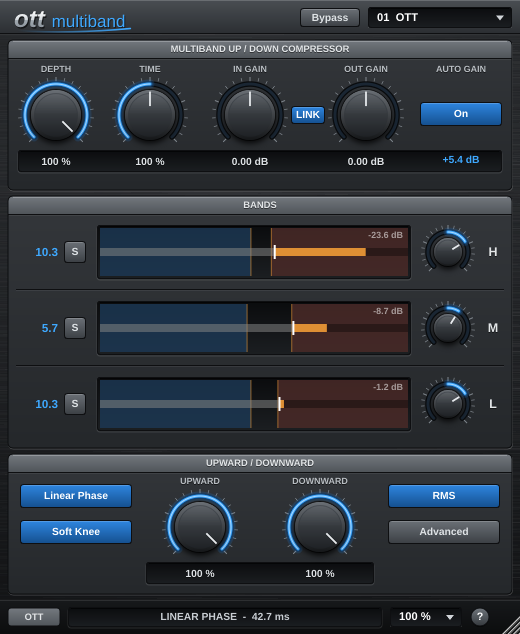
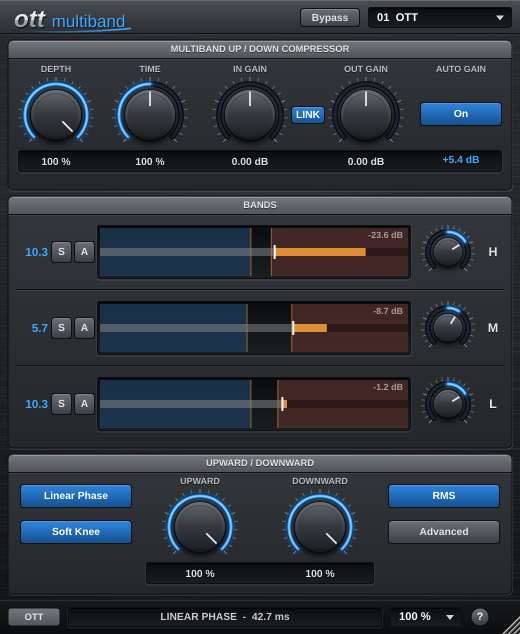
Band auto gain (A buttons on the main view)
Each band keeps 8 s of its incoming level and detector level (10 ms
steps) and works out the loudness change the current gain curve
applies; the make-up cancels it. Settings changes are compensated at
once by re-evaluating the history, so it doesn't ride the music. A
comparison of the real compressor output with the static curve (learnt
after each change settles) corrects for attack / release. Band level
holds within ~0.2 dB of the uncompressed band in tests.

Claude-Session: https://claude.ai/code/session_01HY2UoCKpkhdLi1GRGhTrA6

diff --git a/Source/DSP/BandCompressor.h b/Source/DSP/BandCompressor.h
@@ -2,6 +2,7 @@
 
 #include <juce_audio_basics/juce_audio_basics.h>
 #include "../Parameters.h"
+#include <array>
 
 namespace ott
 {
@@ -20,6 +21,14 @@ namespace ott
         release) and a slow one (250 ms attack, 1.2 s release); the band follows
         whichever compresses more. Short peaks recover quickly, sustained
         compression recovers slowly, so there's less pumping on dense material.
+      - Auto gain (make-up): keeps 8 s of the band's incoming level (10 ms steps)
+        and works out the exact loudness change the current gain curve applies to
+        it; the make-up cancels that. Changing a threshold, ratio or Upward /
+        Downward updates it at once (it re-evaluates the history), and it only
+        drifts at the pace of an 8 s loudness window, so it doesn't ride the music.
+        A running comparison of the real compressor output with the static curve
+        corrects for attack / release, so the long-term level matches to ~0.2 dB.
+        The band's output gain still trims on top.
 */
 class BandCompressor
 {
@@ -31,7 +40,7 @@ public:
         float aboveThresh = -30.0f, aboveRatio = 4.0f;
         float belowThresh = -40.0f, belowRatio = 4.0f;
         float upward = 1.0f, downward = 1.0f, timeScale = 1.0f;
-        bool active = true, softKnee = true, rms = true, autoRelease = false;
+        bool active = true, softKnee = true, rms = true, autoRelease = false, autoGain = false;
     };
 
     struct Meter
@@ -39,6 +48,7 @@ public:
         float inputDb = kMinDb;   // detector level (after input gain)
         float outputDb = kMinDb;  // band output peak
         float gainDb = 0.0f;      // gain change applied by the compressor
+        float makeupDb = 0.0f;    // auto gain make-up
     };
 
     void prepare (double fs)
@@ -48,6 +58,8 @@ public:
         outGain.reset (fs, 0.02);
         activeMix.reset (fs, 0.03);
         rmsAlpha = 1.0f - coefFor (10.0f);
+        makeupAlpha = 1.0f - coefFor (100.0f);
+        blockLength = std::max (1, juce::roundToInt (0.01 * fs));
         reset();
     }
 
@@ -55,6 +67,8 @@ public:
     {
         envMs = 0.0f;
         gainDb = fastDb = slowDb = 0.0f;
+        resetMakeup();
+        makeupGain = makeupTarget = 1.0f;
         inGain.setCurrentAndTargetValue (juce::Decibels::decibelsToGain (settings.inputDb));
         outGain.setCurrentAndTargetValue (juce::Decibels::decibelsToGain (settings.outputDb));
         activeMix.setCurrentAndTargetValue (settings.active ? 1.0f : 0.0f);
@@ -62,7 +76,17 @@ public:
 
     void setSettings (const Settings& s)
     {
+        using juce::exactlyEqual;
+        const bool curveChanged = ! exactlyEqual (s.aboveThresh, settings.aboveThresh) || ! exactlyEqual (s.belowThresh, settings.belowThresh)
+                               || ! exactlyEqual (s.aboveRatio, settings.aboveRatio) || ! exactlyEqual (s.belowRatio, settings.belowRatio)
+                               || ! exactlyEqual (s.upward, settings.upward) || ! exactlyEqual (s.downward, settings.downward)
+                               || s.softKnee != settings.softKnee || s.rms != settings.rms;
+        const bool switchedOn = s.autoGain && ! settings.autoGain;
         settings = s;
+        if (curveChanged)
+            blocksSinceChange = 0;               // the ballistics correction re-learns from new blocks
+        if ((curveChanged || switchedOn) && settings.autoGain)
+            updateMakeupTarget();                // re-evaluate the history with the new curve
         inGain.setTargetValue (juce::Decibels::decibelsToGain (s.inputDb));
         outGain.setTargetValue (juce::Decibels::decibelsToGain (s.outputDb));
         activeMix.setTargetValue (s.active ? 1.0f : 0.0f);
@@ -151,7 +175,15 @@ public:
             const float g = juce::Decibels::decibelsToGain (gainDb, -200.0f);
             float zl = yl * g, zr = yr * g;
 
-            const float post = outGain.getNextValue();
+            // auto gain: collect the incoming level, then apply the make-up
+            blockIn += (double) (yl * yl + yr * yr) * chanNorm;
+            blockLevel += (double) std::max (kMinDb, levelDb);
+            blockOut += (double) (zl * zl + zr * zr) * chanNorm;
+            if (++blockCount >= blockLength)
+                pushMakeupBlock();
+            makeupGain += makeupAlpha * ((settings.autoGain ? makeupTarget : 1.0f) - makeupGain);
+
+            const float post = outGain.getNextValue() * makeupGain;
             zl *= post;
             zr *= post;
 
@@ -170,11 +202,78 @@ public:
         meter.inputDb = std::max (kMinDb, maxLevelDb);
         meter.outputDb = std::max (kMinDb, juce::Decibels::gainToDecibels (maxOut, -100.0f));
         meter.gainDb = settings.active ? gainDb : 0.0f;
+        meter.makeupDb = juce::Decibels::gainToDecibels (makeupGain);
     }
 
     const Meter& getMeter() const noexcept     { return meter; }
 
 private:
+    void resetMakeup()
+    {
+        historyPower.fill (0.0f);
+        historyLevel.fill (kMinDb);
+        historyActual.fill (0.0f);
+        historyPredicted.fill (0.0f);
+        historyCount = historyIndex = blockCount = blocksSinceChange = 0;
+        blockIn = blockLevel = blockOut = 0.0;
+        ballistics = 1.0;
+        makeupTarget = makeupGain;
+    }
+
+    void pushMakeupBlock()
+    {
+        historyPower[(size_t) historyIndex] = (float) (blockIn / (double) blockLength);
+        historyLevel[(size_t) historyIndex] = (float) (blockLevel / (double) blockLength);
+        // what the compressor really did vs. what the static curve predicts (attack / release
+        // smooth the gain, so the real average differs a little from the curve)
+        historyActual[(size_t) historyIndex] = (float) (blockOut / (double) blockLength);
+        historyPredicted[(size_t) historyIndex] = historyPower[(size_t) historyIndex]
+            * (float) std::pow (10.0, 0.1 * (double) computeGainDb (historyLevel[(size_t) historyIndex]));
+        historyIndex = (historyIndex + 1) % kHistory;
+        historyCount = std::min (historyCount + 1, kHistory);
+        blocksSinceChange = std::min (blocksSinceChange + 1, kHistory);
+        blockIn = blockLevel = blockOut = 0.0;
+        blockCount = 0;
+        if (settings.autoGain && historyIndex % 5 == 0)   // every 50 ms (setting changes update at once)
+            updateMakeupTarget();
+    }
+
+    // Make-up = loudness of the history / loudness of the history after the current gain curve
+    // (each 10 ms step weighted by its power, its gain taken at the detector's level).
+    void updateMakeupTarget()
+    {
+        double in = 0.0, out = 0.0;
+        for (int i = 0; i < historyCount; ++i)
+        {
+            const float p = historyPower[(size_t) i];
+            if (p < 1.0e-10f)
+                continue;
+            in  += (double) p;
+            out += (double) p * std::pow (10.0, 0.1 * (double) computeGainDb (historyLevel[(size_t) i]));
+        }
+
+        // Ballistics correction (limited to +/- 12 dB), learnt only from blocks recorded since the
+        // last settings change, skipping the first 0.5 s while the compressor's gain moves over to
+        // the new setting; until there's 0.5 s of settled blocks, the previous correction is kept.
+        constexpr int settleBlocks = 50;
+        if (blocksSinceChange >= 2 * settleBlocks)
+        {
+            double actual = 0.0, predicted = 0.0;
+            for (int k = 1; k <= std::min (blocksSinceChange - settleBlocks, historyCount); ++k)
+            {
+                const size_t i = (size_t) ((historyIndex - k + kHistory) % kHistory);
+                actual += (double) historyActual[i];
+                predicted += (double) historyPredicted[i];
+            }
+            if (predicted > 1.0e-20 && actual > 1.0e-20)
+                ballistics = juce::jlimit (0.063, 15.8, actual / predicted);
+        }
+
+        // Hold through silence (band below -70 dB on average); +/- 30 dB at most.
+        if (historyCount > 0 && in / (double) historyCount > 1.0e-7 && out > 1.0e-20)
+            makeupTarget = (float) juce::jlimit (0.0316, 31.6, std::sqrt (in / (out * ballistics)));
+    }
+
     float coefFor (float ms) const
     {
         return std::exp (-1.0f / (0.001f * ms * (float) sampleRate));
@@ -191,6 +290,14 @@ private:
     float attackCoef = 0.0f, releaseCoef = 0.0f, rmsAlpha = 0.0f;
     float fastReleaseCoef = 0.0f, slowAttackCoef = 0.0f, slowReleaseCoef = 0.0f;
     float knee = 10.0f, downSlope = 0.0f, upSlope = 0.0f;
+
+    // auto gain
+    static constexpr int kHistory = 800;              // 800 x 10 ms = 8 s
+    std::array<float, kHistory> historyPower {}, historyLevel {}, historyActual {}, historyPredicted {};
+    double blockIn = 0.0, blockLevel = 0.0, blockOut = 0.0;
+    int blockLength = 480, blockCount = 0, historyCount = 0, historyIndex = 0, blocksSinceChange = 0;
+    double ballistics = 1.0;
+    float makeupGain = 1.0f, makeupTarget = 1.0f, makeupAlpha = 0.0f;
 };
 
 } // namespace ott

diff --git a/Source/PluginEditor.cpp b/Source/PluginEditor.cpp
@@ -115,6 +115,10 @@ OttAudioProcessorEditor::OttAudioProcessorEditor (OttAudioProcessor& proc)
         mainSoloButtons[(size_t) b].setButtonText ("S");
         setupToggle (mainSoloButtons[(size_t) b], ott::bandParam (b, ott::BandIDs::solo),
                      "Solo the " + String (ott::bandName (b)).toLowerCase() + " band", content);
+        bandAutoGainButtons[(size_t) b].setButtonText ("A");
+        setupToggle (bandAutoGainButtons[(size_t) b], ott::bandParam (b, ott::BandIDs::autoGain),
+                     "Auto gain for the " + String (ott::bandName (b)).toLowerCase() + " band: keeps its level the same "
+                     "when you change its threshold or compression. The band knob still trims on top", content);
     }
 
     display.onStatus = status;
@@ -317,8 +321,9 @@ void OttAudioProcessorEditor::layoutContent()
     for (int b = 0; b < ott::NumBands; ++b)
     {
         const int r = kBandRowY[b];
-        bandGainFields[(size_t) b]->setBounds (12, r + 20, 46, 24);
-        mainSoloButtons[(size_t) b].setBounds (64, r + 21, 22, 22);
+        bandGainFields[(size_t) b]->setBounds (8, r + 20, 40, 24);
+        mainSoloButtons[(size_t) b].setBounds (51, r + 21, 21, 22);
+        bandAutoGainButtons[(size_t) b].setBounds (74, r + 21, 21, 22);
         bandGainKnobs[(size_t) b]->setBounds (420, r + 4, 56, 56);
         lanes[(size_t) b] = { 8.0f, (float) (r - displayBounds.getY() + 8), 308.0f, (float) (kBandRowH - 16) };
     }
@@ -387,7 +392,8 @@ void OttAudioProcessorEditor::timerCallback()
         for (Component* c : { (Component*) bandGainFields[i].get(), (Component*) bandGainKnobs[i].get(),
                               (Component*) thresholdFields[i].get(), (Component*) attackFields[i].get(), (Component*) releaseFields[i].get(),
                               (Component*) &powerButtons[i], (Component*) &soloButtons[i],
-                              (Component*) &mainSoloButtons[i], (Component*) &autoReleaseButtons[i] })
+                              (Component*) &mainSoloButtons[i], (Component*) &autoReleaseButtons[i],
+                              (Component*) &bandAutoGainButtons[i] })
             if (c->isEnabled() != on)
                 c->setEnabled (on);
 

diff --git a/Source/UI/OttComponents.cpp b/Source/UI/OttComponents.cpp
@@ -519,6 +519,7 @@ void DynamicsDisplay::updateMeters (float dt)
         s.in  += (in  - s.in)  * (in  > s.in  ? rise : fall);
         s.out += (out - s.out) * (out > s.out ? rise : fall);
         s.gain += (m.gainDb.load() - s.gain) * gainGlide;
+        s.makeup += (m.makeupDb.load() - s.makeup) * gainGlide;
     }
     repaint();
 }
@@ -617,7 +618,10 @@ void DynamicsDisplay::paintLane (Graphics& g, int band, Rectangle<float> lane)
     // small, dim gain readout
     g.setFont (CustomLookAndFeel::uiFont (10.0f, true));
     g.setColour (Colours::white.withAlpha (0.55f));
-    g.drawText ((m.gain >= 0.05f ? "+" : "") + String (m.gain, 1) + " dB", lane.reduced (5.0f, 2.0f), Justification::topRight);
+    String text = (m.gain >= 0.05f ? "+" : "") + String (m.gain, 1) + " dB";
+    if (get (band, ott::BandIDs::autoGain) >= 0.5f)
+        text << "   A " << (m.makeup >= 0.0f ? "+" : "") << String (m.makeup, 1);
+    g.drawText (text, lane.reduced (5.0f, 2.0f), Justification::topRight);
 }
 
 //==============================================================================
@@ -651,6 +655,7 @@ void HelpOverlay::paint (Graphics& g)
         "DEPTH = dry/wet.  TIME scales every attack and release.  IN GAIN drives all bands.",
         "LINK: turning IN GAIN up turns OUT GAIN down by the same amount (keeps the level matched).",
         "AUTO GAIN: keeps the output as loud (K-weighted, like LUFS) as what comes into the plugin.",
+        "S = solo a band.  A = band auto gain: keeps that band's level when you change its compression.",
         "BANDS: drag a region's edge to set its threshold, drag inside it (or wheel) to set its ratio.",
         "Left (blue) = below threshold, raised upward.  Right (brown) = above threshold, pushed down.",
         "The knob and number on each row are the band's output gain.",

diff --git a/Source/PluginProcessor.cpp b/Source/PluginProcessor.cpp
@@ -70,6 +70,7 @@ juce::AudioProcessorValueTreeState::ParameterLayout OttAudioProcessor::createPar
         floatParam (bandParam (b, BandIDs::release), n + " Release", logRange (1.0f, 5000.0f, 250.0f), d.release,
                     [] (float v) { return formatMs (v); });
         boolParam  (bandParam (b, BandIDs::autoRelease), n + " Auto Release", false);
+        boolParam  (bandParam (b, BandIDs::autoGain), n + " Auto Gain", false);
         floatParam (bandParam (b, BandIDs::aboveThresh), n + " Above Threshold", { kMinDb, 0.0f }, d.aboveThresh, db);
         floatParam (bandParam (b, BandIDs::aboveRatio),  n + " Above Ratio", logRange (1.0f, kRatioMax, 10.0f), d.aboveRatio,
                     [] (float v) { return formatRatio (v) + " : 1"; }, parseRatio);
@@ -256,6 +257,7 @@ void OttAudioProcessor::updateBandSettings()
         s.attackMs    = param (bandParam (b, BandIDs::attack));
         s.releaseMs   = param (bandParam (b, BandIDs::release));
         s.autoRelease = paramOn (bandParam (b, BandIDs::autoRelease));
+        s.autoGain    = paramOn (bandParam (b, BandIDs::autoGain));
         const float offset = param (bandParam (b, BandIDs::threshold));
         s.aboveThresh = param (bandParam (b, BandIDs::aboveThresh)) + offset;
         s.aboveRatio  = param (bandParam (b, BandIDs::aboveRatio));
@@ -406,6 +408,7 @@ void OttAudioProcessor::processBlock (juce::AudioBuffer<float>& buffer, juce::Mi
         meters[(size_t) b].inputDb.store (m.inputDb);
         meters[(size_t) b].outputDb.store (m.outputDb);
         meters[(size_t) b].gainDb.store (m.gainDb);
+        meters[(size_t) b].makeupDb.store (m.makeupDb);
     }
 }
 

diff --git a/Source/PluginEditor.h b/Source/PluginEditor.h
@@ -67,7 +67,7 @@ private:
     juce::TextButton linkButton { "LINK" }, autoGainButton { "Auto Gain" };
     std::array<std::unique_ptr<ValueField>, ott::NumBands> bandGainFields;
     std::array<std::unique_ptr<OttKnob>, ott::NumBands> bandGainKnobs;
-    std::array<juce::TextButton, ott::NumBands> mainSoloButtons;
+    std::array<juce::TextButton, ott::NumBands> mainSoloButtons, bandAutoGainButtons;
     DynamicsDisplay display;
     juce::TextButton linearPhaseButton { "Linear Phase" }, softKneeButton { "Soft Knee" }, rmsButton { "RMS" };
     juce::TextButton advancedButton { "Advanced" };

diff --git a/Source/PluginProcessor.h b/Source/PluginProcessor.h
@@ -51,7 +51,7 @@ public:
     /** Meter values for the editor, written by the audio thread. */
     struct BandMeter
     {
-        std::atomic<float> inputDb { ott::kMinDb }, outputDb { ott::kMinDb }, gainDb { 0.0f };
+        std::atomic<float> inputDb { ott::kMinDb }, outputDb { ott::kMinDb }, gainDb { 0.0f }, makeupDb { 0.0f };
     };
     std::array<BandMeter, ott::NumBands> meters;
     std::atomic<float> latencyMs { 0.0f };

diff --git a/Source/Parameters.h b/Source/Parameters.h
@@ -60,6 +60,7 @@ namespace BandIDs
     inline constexpr auto attack      = "attack";
     inline constexpr auto release     = "release";
     inline constexpr auto autoRelease = "autoRelease";
+    inline constexpr auto autoGain    = "autoGain";      // band make-up
     inline constexpr auto aboveThresh = "aboveThresh";
     inline constexpr auto aboveRatio  = "aboveRatio";
     inline constexpr auto belowThresh = "belowThresh";

diff --git a/Source/UI/OttComponents.h b/Source/UI/OttComponents.h
@@ -164,7 +164,7 @@ private:
     std::array<juce::Rectangle<float>, 3> lanes;
     juce::Rectangle<float> scaleArea;
 
-    struct MeterState { float in = -80.0f, out = -80.0f, gain = 0.0f; };
+    struct MeterState { float in = -80.0f, out = -80.0f, gain = 0.0f, makeup = 0.0f; };
     std::array<MeterState, 3> meterState;
 
     Hit active, hover;

diff --git a/README.md b/README.md
@@ -15,7 +15,7 @@ The main view follows the layout of Xfer's OTT. The detailed settings are on the
 | Section | Controls |
 |---------|----------|
 | **Top** | **Depth** (dry/wet), **Time** (scales every attack/release), **In Gain**, **Out Gain**. **LINK** (on by default): turning In Gain up turns Out Gain down by the same amount. **Auto Gain** on/off |
-| **Bands** | One row per band (H / M / L), with an **S** (solo) button beside each bar. The number and knob are the band's output gain (default 10.3 / 5.7 / 10.3 dB). The bar runs from -80 dB (left) to 0 dB (right): the blue area is below the threshold (raised upward), the brown area is above it (pushed down). Drag an edge to move a threshold, and drag up/down inside an area to set its ratio. The strip through the middle shows the input level (grey), what the compressor does to it (orange = pushed down, light blue = lifted up) and where it ends up (white tick); the corner number is the gain change |
+| **Bands** | One row per band (H / M / L), with **S** (solo) and **A** (band auto gain) buttons beside each bar. The number and knob are the band's output gain (default 10.3 / 5.7 / 10.3 dB). The bar runs from -80 dB (left) to 0 dB (right): the blue area is below the threshold (raised upward), the brown area is above it (pushed down). Drag an edge to move a threshold, and drag up/down inside an area to set its ratio. The strip through the middle shows the input level (grey), what the compressor does to it (orange = pushed down, light blue = lifted up) and where it ends up (white tick); the corner number is the gain change |
 | **Upward / Downward** | Scale each direction (as on Xfer OTT); at 0 % that side is hidden from the bars. **Linear Phase** on = no phase shift (~43 ms latency), off = zero latency. **Soft Knee**, **RMS** (off = peak detection), **Advanced** |
 | **Advanced** | Three sections (High / Mid / Low): split frequency with High / Low on/off, power (off = band passes untouched), **S** (solo), **Threshold** (-40 to +24 dB, moves both edges of the band's bar together, double-click = 0), **Attack**, **Release** with **Auto** release (short peaks recover fast, sustained compression slowly). **Crossover Slope**: 6 / 12 / 18 / 24 dB/oct (default 12) |
 | **Bars** | **Bypass**, 10 factory presets, **Size** (75-200 %), help |
@@ -36,6 +36,14 @@ going out (K-weighted, the same weighting LUFS uses, in 100 ms blocks over a sli
 settles in about a second) and keeps the output at the input's
 loudness, so louder never fools you into thinking it's better. The readout under the button shows the
 gain it is applying. Bypass always passes the untouched input.
+
+**Band auto gain (A)** keeps a band's level the same when you change its compression (threshold,
+edges, ratios, Upward / Downward), like a compressor's auto make-up. Each band keeps 8 s of its
+incoming level (10 ms steps) and works out exactly how much the current settings change its loudness,
+so a settings change is compensated at once and the make-up doesn't ride the music. A running
+comparison with the compressor's real output corrects for attack and release. In tests the band level
+stayed within ~0.2 dB of the uncompressed band, including after a 20 dB threshold change. The band
+knob still trims on top, and the corner of the band's bar shows the make-up ("A +x.x").
 
 When **Upward** or **Downward** is at 0 %, that side (its coloured area and orange edge) disappears
 from the band bars.
